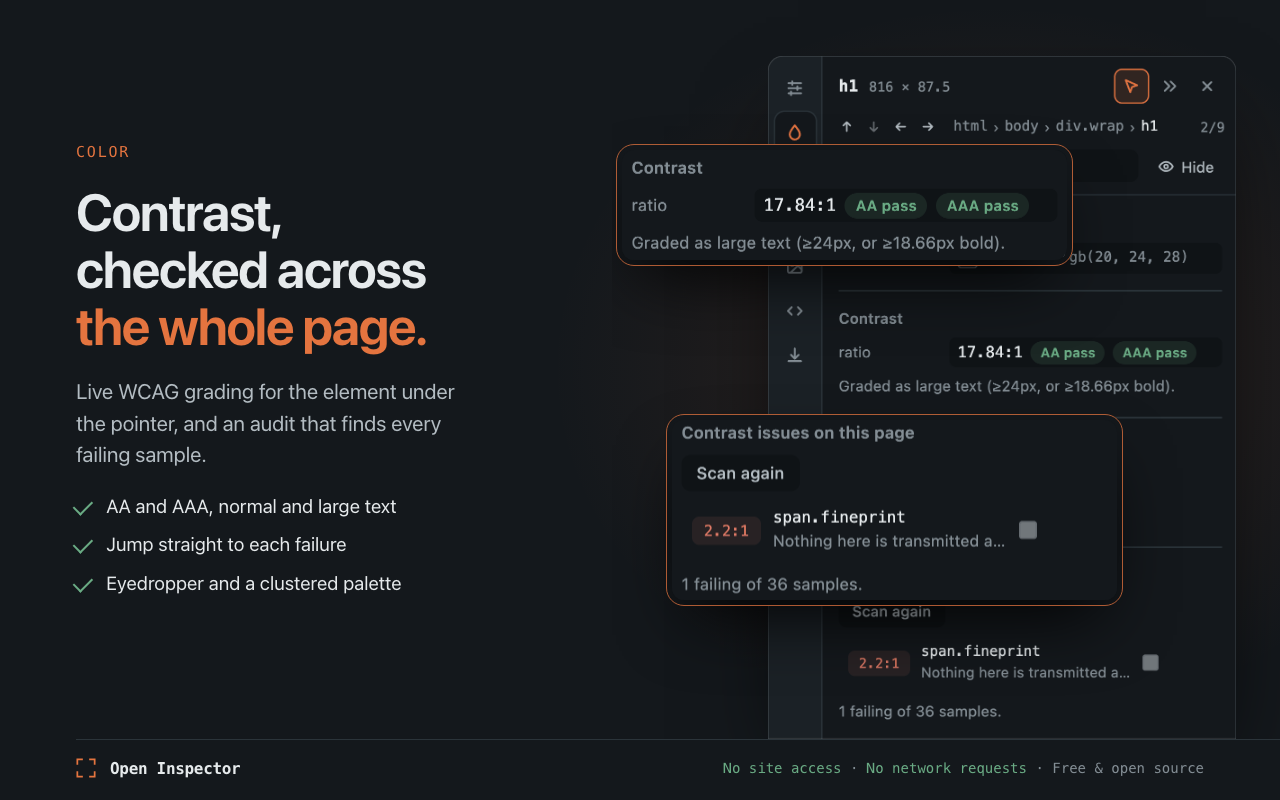
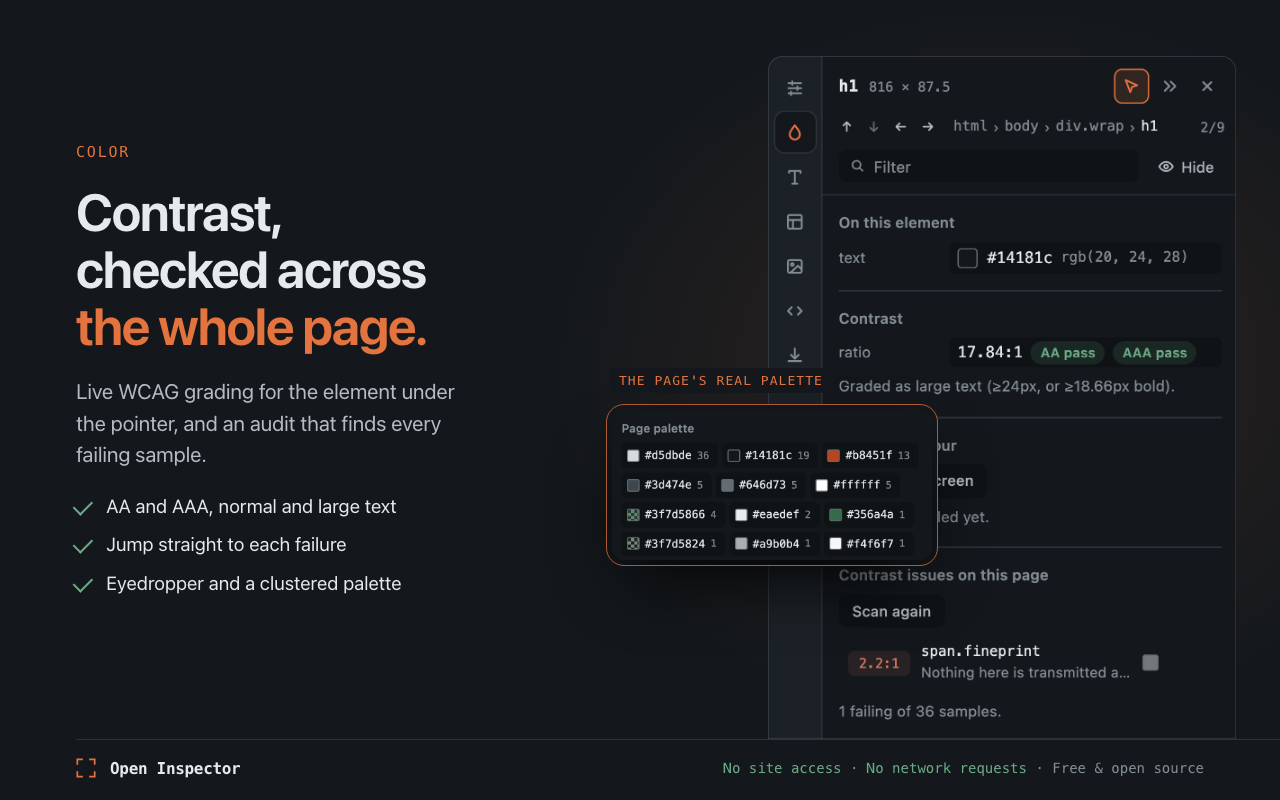
Call-outs show what the panel beside them does not
The first pass enlarged a crop of the same panel it sat on — a box model
next to a close-up of that box model. Each call-out is now a different
fact, captured from the real extension by a new script:

- Styles: the highlight and size chip on the page itself
- Layout: the breakpoints affecting the element
- Color: the page's whole palette
- Type: the page's type scale
- Export: the same tokens as a Tailwind config

Where the panel's own crop reaches the section being called out, the
panel fades out before it, so nothing appears twice. Labels sit on solid
chips so they read over the panel.

diff --git a/store/launch/src/launch.html b/store/launch/src/launch.html
@@ -116,11 +116,12 @@
     border-left: 2.5px solid var(--good); border-bottom: 2.5px solid var(--good);
     transform: rotate(-45deg) translateY(-3px);
   }
-  .stage { position: relative; height: 100%; overflow: hidden; }
+  .stage { position: relative; height: 100%; }
   /* The panel itself, cropped out of its backdrop and run off the bottom
      edge, so it reads as a window on a page rather than a picture of one. */
   .stage .panel {
     --k: 0.45;
+    overflow: hidden;
     position: absolute; top: 56px; right: 44px; bottom: 0;
     width: calc(1040px * var(--k));
     background-image: var(--src);
@@ -129,20 +130,43 @@
     background-position: calc(-92px * var(--k)) calc(-92px * var(--k));
     border-radius: 14px 14px 0 0;
     box-shadow: 0 40px 90px -30px rgba(0,0,0,0.9);
+    /*
+     * Faded out before its lower sections, so the call-out beside it is the
+     * only place they appear. --fade is how much of the bottom to lose; a
+     * slide whose detail comes from further down than the crop sets it to 0.
+     */
+    --fade: 190px;
+    -webkit-mask-image: linear-gradient(#000 calc(100% - var(--fade)), transparent calc(100% - var(--fade) * 0.25));
+    mask-image: linear-gradient(#000 calc(100% - var(--fade)), transparent calc(100% - var(--fade) * 0.25));
   }
-  .callout {
-    --k: 0.5;
+  /*
+   * A detail the panel beside it does not show: a section further down, a
+   * second format, or the highlight on the page itself. Captured from the
+   * real extension by scripts/gen-launch-details.mjs.
+   */
+  .detail {
     position: absolute;
-    width: calc(var(--w) * var(--k) * 1px);
-    height: calc(var(--h) * var(--k) * 1px);
-    background-image: var(--src);
-    background-repeat: no-repeat;
-    background-size: calc(1224px * var(--k)) auto;
-    background-position: calc(var(--x) * var(--k) * -1px) calc(var(--y) * var(--k) * -1px);
     border-radius: 12px;
+    overflow: hidden;
     outline: 1.5px solid rgba(228,116,63,0.75);
     outline-offset: 5px;
     box-shadow: 0 30px 70px -18px rgba(0,0,0,0.95), 0 0 0 6px #14181c;
+  }
+  .detail img { display: block; width: 100%; }
+  /* Code runs on past the crop; end it in the panel's own colour rather than
+     cutting a line in half. */
+  .detail.fade::after {
+    content: ''; position: absolute; left: 0; right: 0; bottom: 0; height: 70px;
+    background: linear-gradient(rgba(21,25,29,0), #15191d 80%);
+  }
+  /* Solid, because it often sits over the panel and must read over anything. */
+  .detail-label {
+    position: absolute;
+    padding: 5px 9px;
+    border-radius: 5px;
+    background: #14181c;
+    font-family: var(--mono); font-size: 13px; letter-spacing: 0.08em; text-transform: uppercase;
+    color: var(--accent);
   }
   .strip {
     grid-column: 1 / -1;
@@ -237,8 +261,8 @@
     <ul class="points"><li>Matched rules, losers struck through</li><li>Edit any value live, revert exactly</li><li>Force :hover, :focus and five more</li></ul>
   </div>
   <div class="stage">
-    <div class="panel" style="--src:url(../../../apps/site/public/shots/panel-styles-dark.png)"></div>
-    <div class="callout" style="--src:url(../../../apps/site/public/shots/panel-styles-dark.png); --x:230; --y:430; --w:890; --h:455; left:30px; top:300px;"></div>
+    <div class="panel" style="--src:url(../../../apps/site/public/shots/panel-styles-dark.png); --fade:0px"></div>
+    <div class="detail" style="left:0px; top:300px; width:340px;"><img src="details/page-card.png" alt=""></div><span class="detail-label" style="left:-2px; top:258px;">On the page</span>
   </div>
   <div class="strip"><svg width="20" height="20"><use href="#mark"/></svg><b>Open Inspector</b><span class="sep"><span class="ok">No site access</span> · <span class="ok">No network requests</span> · Free &amp; open source</span></div>
 </section>
@@ -252,7 +276,7 @@
   </div>
   <div class="stage">
     <div class="panel" style="--src:url(../../../apps/site/public/shots/panel-layout-dark.png)"></div>
-    <div class="callout" style="--src:url(../../../apps/site/public/shots/panel-layout-dark.png); --x:230; --y:990; --w:890; --h:420; left:30px; top:330px;"></div>
+    <div class="detail" style="left:0px; top:440px; width:360px;"><img src="details/layout-breakpoints.png" alt=""></div><span class="detail-label" style="left:-2px; top:398px;">Breakpoints it responds to</span>
   </div>
   <div class="strip"><svg width="20" height="20"><use href="#mark"/></svg><b>Open Inspector</b><span class="sep"><span class="ok">No site access</span> · <span class="ok">No network requests</span> · Free &amp; open source</span></div>
 </section>
@@ -265,8 +289,8 @@
     <ul class="points"><li>AA and AAA, normal and large text</li><li>Jump straight to each failure</li><li>Eyedropper and a clustered palette</li></ul>
   </div>
   <div class="stage">
-    <div class="panel" style="--src:url(../../../apps/site/public/shots/panel-color-dark.png)"></div>
-    <div class="callout" style="--src:url(../../../apps/site/public/shots/panel-color-dark.png); --x:230; --y:640; --w:890; --h:220; left:10px; top:150px;"></div><div class="callout" style="--src:url(../../../apps/site/public/shots/panel-color-dark.png); --x:230; --y:1220; --w:890; --h:360; left:60px; top:420px;"></div>
+    <div class="panel" style="--src:url(../../../apps/site/public/shots/panel-color-dark.png); --fade:0px"></div>
+    <div class="detail" style="left:0px; top:410px; width:320px;"><img src="details/color-palette.png" alt=""></div><span class="detail-label" style="left:-2px; top:368px;">The page's real palette</span>
   </div>
   <div class="strip"><svg width="20" height="20"><use href="#mark"/></svg><b>Open Inspector</b><span class="sep"><span class="ok">No site access</span> · <span class="ok">No network requests</span> · Free &amp; open source</span></div>
 </section>
@@ -280,7 +304,7 @@
   </div>
   <div class="stage">
     <div class="panel" style="--src:url(../../../apps/site/public/shots/panel-type-dark.png)"></div>
-    <div class="callout" style="--src:url(../../../apps/site/public/shots/panel-type-dark.png); --x:230; --y:430; --w:890; --h:340; left:30px; top:320px;"></div>
+    <div class="detail" style="left:0px; top:460px; width:380px;"><img src="details/type-scale.png" alt=""></div><span class="detail-label" style="left:-2px; top:418px;">The page's type scale</span>
   </div>
   <div class="strip"><svg width="20" height="20"><use href="#mark"/></svg><b>Open Inspector</b><span class="sep"><span class="ok">No site access</span> · <span class="ok">No network requests</span> · Free &amp; open source</span></div>
 </section>
@@ -293,8 +317,8 @@
     <ul class="points"><li>CSS variables, SCSS and Tailwind</li><li>JSON and W3C design tokens</li><li>A handoff written for Cursor or Claude</li></ul>
   </div>
   <div class="stage">
-    <div class="panel" style="--src:url(../../../apps/site/public/shots/panel-export-dark.png)"></div>
-    <div class="callout" style="--src:url(../../../apps/site/public/shots/panel-export-dark.png); --x:250; --y:895; --w:860; --h:470; left:30px; top:300px;"></div>
+    <div class="panel" style="--src:url(../../../apps/site/public/shots/panel-export-dark.png); --fade:0px"></div>
+    <div class="detail fade" style="left:0px; top:390px; width:330px;"><img src="details/export-tailwind.png" alt=""></div><span class="detail-label" style="left:-2px; top:348px;">Or as Tailwind</span>
   </div>
   <div class="strip"><svg width="20" height="20"><use href="#mark"/></svg><b>Open Inspector</b><span class="sep"><span class="ok">No site access</span> · <span class="ok">No network requests</span> · Free &amp; open source</span></div>
 </section>
@@ -313,7 +337,7 @@
   </div>
   <div class="stage">
     <div class="panel" style="--src:url(../../../apps/site/public/shots/panel-styles-dark.png)"></div>
-    <div class="callout" style="--src:url(../../../apps/site/public/shots/panel-styles-dark.png); --x:230; --y:430; --w:890; --h:455; --k:0.46; left:0px; top:250px;"></div>
+    <div class="detail" style="left:40px; top:120px; width:280px;"><img src="details/page-card.png" alt=""></div>
   </div>
 </section>
 
